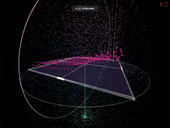
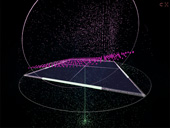
16号动态效果优化

diff --git a/js/e16.js b/js/e16.js
@@ -7,12 +7,13 @@ define(['analyser', 'util', 'renderer'], function (analyser, util, renderer) {
         materialProcessbar, geometryProcessbar, meshProcessbars,
         materialBackground,
         centerMaterial, centerGeometry, centerParticles,
-        outerMaterial,outerMesh,
+        outerMaterial, outerMesh,
         visibleMaterial, visibleGeometry, visibleParticles, vertexcount = 0,
         i, h, r = 12, proc = 0,
         SEPARATION = 100, AMOUNTX = 25, AMOUNTY = 25,
-        data, len = 20, total,avg, count = 10000,
-        musicdata, camera_a = 0, square_r = SEPARATION * AMOUNTY, square_r2 = 0.53 * square_r,square_r3 =Math.sqrt(2)*square_r2,
+        data, len = 20, total, avg, count = 10000,
+        musicdata, camera_a = 0,
+        square_r = SEPARATION * AMOUNTY, square_r2 = 0.53 * square_r, square_r3 = Math.sqrt(2) * 0.535 * square_r,
         twoPI = 2 * Math.PI,
         initOrNot = false;
 
@@ -41,9 +42,9 @@ define(['analyser', 'util', 'renderer'], function (analyser, util, renderer) {
         for (i = 0; i < len; i++) {
             total += data[i]
         }
-        avg = Math.floor(total/len);
+        avg = Math.floor(total / len);
 
-        camera_a = (camera_a + avg*0.00001)%twoPI;
+        camera_a = (camera_a + avg * 0.00001) % twoPI;
 
         camera.position.set(square_r * Math.cos(camera_a), square_r * Math.sin(camera_a), camera.position.z);
         camera.lookAt({
@@ -55,20 +56,10 @@ define(['analyser', 'util', 'renderer'], function (analyser, util, renderer) {
 
         // 彩色进度条重绘
 
-        geometryProcessbar = new THREE.BoxGeometry(proc * 1.07 * square_r, 0.01 * square_r, 0.01 * square_r, 1, 1, 1);
         materialProcessbar.color.setHSL(((h * 360 + 180) % 360) / 360, 1.0, 0.9);
-        meshProcessbars[4].geometry.dispose();
-
-        var meshProcessbar;
 
         for (i = 4; i < 8; i++) {
-            scene.remove(meshProcessbars[i]);
-            meshProcessbar = new THREE.Mesh(geometryProcessbar, materialProcessbar);
-            var t = i * twoPI / 4;
-            meshProcessbar.position.set(Math.cos(t) * square_r2, Math.sin(t) * square_r2, 0);
-            meshProcessbar.rotateZ(t + twoPI / 4);
-            meshProcessbars[i] = meshProcessbar;
-            scene.add(meshProcessbar);
+            meshProcessbars[i].scale.set(proc, 1, 1);
         }
 
         materialBackground.color.setHSL(((h * 360 + 300) % 360) / 360, 0.3, 0.4);
@@ -86,17 +77,18 @@ define(['analyser', 'util', 'renderer'], function (analyser, util, renderer) {
             var vertex = centerGeometry.vertices[i],
                 t = vertex.postiondata[0],
                 rt = vertex.postiondata[1],
-                v = vertex.postiondata[2];
+                v = vertex.postiondata[2],
+                absx = Math.abs(vertex.x),
+                absy = Math.abs(vertex.y);
             if ((vertex.z != 0) && (rt < square_r3)) {
                 if ((vertex.x == 0) && (vertex.y == 0)) {
-                    if (vertex.z >  -square_r3) {
+                    if (vertex.z > -square_r3) {
                         vertex.z -= v;
                         continue;
                     } else {
                         t = Math.random() * twoPI;
                         rt = 1;
                         v = 1 + Math.random() * 2;
-                        vertex.z = -0.5 * square_r3;
                     }
                 } else {
                     rt += v;
@@ -105,24 +97,17 @@ define(['analyser', 'util', 'renderer'], function (analyser, util, renderer) {
                 }
             } else {
                 vertex.z = 0;
-                if ((vertex.x * vertex.y == 0) && (Math.abs(vertex.x + vertex.y) < square_r2)) {
-                    if (vertex.y != 0) {
-                        vertex.y = Math.sign(vertex.y) * Math.floor(Math.abs(vertex.y) * 0.99);
-                        continue;
-                    } else if (vertex.x != 0) {
-                        vertex.x = Math.sign(vertex.x) * Math.floor(Math.abs(vertex.x) * 0.99);
-                        continue;
-                    } else {
-                        vertex.z = -v;
-                        continue;
-                    }
-                } else if ((Math.abs(vertex.y) > square_r2) || (Math.abs(vertex.x) > square_r2))
+                if ((absx + absy) == 0) {
+
+                    vertex.z = -1;
+                    continue;
+                } else if ((absy > square_r2) || (absx > square_r2))
                     rt -= v;
-                else if (Math.abs(vertex.y) > Math.abs(vertex.x)) {
-                    vertex.x = Math.sign(vertex.x) * Math.floor(Math.abs(vertex.x) * 0.99);
+                else if (((absy == 0) && (absx <= square_r)) || ((absx != 0) && (absy >= absx))) {
+                    vertex.x = Math.sign(vertex.x) * Math.floor(absx * 0.99);
                     continue;
                 } else {
-                    vertex.y = Math.sign(vertex.y) * Math.floor(Math.abs(vertex.y) * 0.99);
+                    vertex.y = Math.sign(vertex.y) * Math.floor(absy * 0.99);
                     continue;
                 }
             }
@@ -139,23 +124,24 @@ define(['analyser', 'util', 'renderer'], function (analyser, util, renderer) {
         // 绘制逃逸小球粒子
 
         var zeroPoint = new THREE.Vector3(),
-            angseg = twoPI/(2*(AMOUNTX+AMOUNTY));
+            angseg = twoPI / (2 * (AMOUNTX + AMOUNTY));
 
         for (i = 0; i < visibleGeometry.vertices.length; i++) {
-            var vertex = visibleGeometry.vertices[i],
-                t = vertex.postiondata[0],
-                rt = vertex.postiondata[1],
-                v = vertex.postiondata[2],
-                isVisible = vertex.postiondata[3],
+            vertex = visibleGeometry.vertices[i];
+            t = vertex.postiondata[0];
+            rt = vertex.postiondata[1];
+            v = vertex.postiondata[2];
+            var isVisible = vertex.postiondata[3],
                 isZUp = vertex.postiondata[4];
+            absx = Math.abs(vertex.x);
+            absy = Math.abs(vertex.y);
             if (!isVisible)
                 continue;
             if (isZUp) {
                 if (vertex.distanceTo(zeroPoint) > square_r3) {
-                    isZUp = false;
+                    vertex.postiondata[4] = false;
                     rt = Math.sqrt(vertex.x * vertex.x + vertex.y * vertex.y);
-                    t += Math.random()*angseg;
-                    v =0.05;
+                    t += Math.random() * angseg;
                 } else {
                     vertex.z += v;
                     continue;
@@ -167,39 +153,31 @@ define(['analyser', 'util', 'renderer'], function (analyser, util, renderer) {
                     vertex.z = Math.sqrt(square_r3 * square_r3 - rt * rt);
                 } else {
                     vertex.z = 0;
-                    if ((vertex.x * vertex.y == 0) && (Math.abs(vertex.x + vertex.y) < square_r2)) {
-                        if (vertex.y != 0) {
-                            vertex.y = Math.sign(vertex.y) * Math.floor(Math.abs(vertex.y) * 0.99);
-                            continue;
-                        } else if (vertex.x != 0) {
-                            vertex.x = Math.sign(vertex.x) * Math.floor(Math.abs(vertex.x) * 0.99);
-                            continue;
-                        } else {
-                            vertex.x=vertex.y=vertex.z=0;
-                            isVisible = false;
-                        }
-                    } else if ((Math.abs(vertex.y) > square_r2) || (Math.abs(vertex.x) > square_r2))
+                    if ((absx + absy) == 0) {
+                        vertex.z = vertex.x = vertex.y = 0;
+                        vertex.postiondata[3] = false;
+                    }
+                    else if ((absy > square_r2) || (absx > square_r2))
                         rt -= v;
-                    else if (Math.abs(vertex.y) > Math.abs(vertex.x)) {
-                        vertex.x = Math.sign(vertex.x) * Math.floor(Math.abs(vertex.x) * 0.99);
+                    else if (((absy == 0) && (absx <= square_r)) || ((absx != 0) && (absy >= absx))) {
+                        vertex.x = Math.sign(vertex.x) * Math.floor(absx * 0.99);
                         continue;
                     } else {
-                        vertex.y = Math.sign(vertex.y) * Math.floor(Math.abs(vertex.y) * 0.99);
+                        vertex.y = Math.sign(vertex.y) * Math.floor(absy * 0.99);
                         continue;
                     }
                 }
-                vertex.x = rt * Math.cos(t);
-                vertex.y = rt * Math.sin(t);
             }
+            vertex.x = rt * Math.cos(t);
+            vertex.y = rt * Math.sin(t);
             vertex.postiondata[0] = t;
             vertex.postiondata[1] = rt;
-            vertex.postiondata[3] = isVisible;
-            vertex.postiondata[4] = isZUp;
         }
 
         visibleMaterial.color.setHSL(h, 0.9, 0.8);
 
-        var tArray = [], t = Math.floor(data.length * 0.4 / AMOUNTY);
+        var tArray = [];
+        t = Math.floor(data.length * 0.4 / AMOUNTY);
         for (i = 0; i < AMOUNTY; i++) {
             tArray[i] = data[i * t] * 2;
         }
@@ -211,25 +189,24 @@ define(['analyser', 'util', 'renderer'], function (analyser, util, renderer) {
 
         material.emissive.setHSL(h, 0.7, 0.4);
 
-        var ruler = 2*r;
+        var ruler = 2 * r;
 
         for (var ix = 0; ix < AMOUNTX; ix++) {
             for (var iy = 0; iy < AMOUNTY; iy++) {
                 particle = particles[i++];
                 musicdata[ix][iy] *= 0.95;
-                if (Math.abs(musicdata[ix][iy] - particle.position.z)>ruler) {
+                if (Math.abs(musicdata[ix][iy] - particle.position.z) > ruler) {
                     var t = vertexcount;
                     var k = getUnvisibleVextex(),
                         vertex = visibleGeometry.vertices[k];
                     if (t != k) {
-                        vertex.x = particle.position.x;
-                        vertex.y = particle.position.y;
+                        vertex.x = particle.position.x + (Math.random() * 2 - 1) * r;
+                        vertex.y = particle.position.y + (Math.random() * 2 - 1) * r;
                         vertex.z = particle.position.z;
-                        vertex.postiondata[0] = Math.atan2(vertex.y, vertex.x);
-                        vertex.postiondata[1] = 1;
-                        vertex.postiondata[2] = 3 + Math.random() * 10;
-                        vertex.postiondata[3] = true;
-                        vertex.postiondata[4] = true;
+                        t = Math.atan2(vertex.y, vertex.x);
+                        if (vertex.x < 0)
+                            t += Math.PI;
+                        vertex.postiondata = [t, 1, 3 + Math.random() * 10, true, true];
                     }
                 }
                 particle.position.set(particle.position.x, particle.position.y, r + musicdata[ix][iy]);
@@ -283,28 +260,29 @@ define(['analyser', 'util', 'renderer'], function (analyser, util, renderer) {
 
         // 绘制滚动圆环
 
-        var outerGeometry = new THREE.TorusGeometry(square_r3,3,4,100,twoPI);
+        var outerGeometry = new THREE.TorusGeometry(square_r3, 3, 4, 100, twoPI);
         outerMaterial = new THREE.MeshBasicMaterial({
-            transparent:true,
+            transparent: true,
             opacity: 0.3,
             color: 0xffffff,
             side: THREE.FrontSide,
             shading: THREE.SmoothShading,
         });
-        outerMesh = new THREE.Mesh(outerGeometry,outerMaterial);
+        outerMesh = new THREE.Mesh(outerGeometry, outerMaterial);
         scene.add(outerMesh);
+
         outerMaterial = new THREE.MeshBasicMaterial({
             opacity: 1,
             color: 0xffffff,
             side: THREE.FrontSide,
             shading: THREE.SmoothShading,
         });
-        outerMesh = new THREE.Mesh(outerGeometry,outerMaterial);
+        outerMesh = new THREE.Mesh(outerGeometry, outerMaterial);
         scene.add(outerMesh);
 
         // 绘制进度条
 
-        geometryProcessbar = new THREE.BoxGeometry(1, 0.01 * square_r, 0.01 * square_r, 1, 1, 1);
+        geometryProcessbar = new THREE.BoxGeometry(1.07 * square_r, 0.01 * square_r, 0.01 * square_r, 1, 1, 1);
         materialProcessbar = new THREE.MeshBasicMaterial({
             opacity: 1,
             color: 0xff00ff,
@@ -317,6 +295,7 @@ define(['analyser', 'util', 'renderer'], function (analyser, util, renderer) {
             var t = i * twoPI / 4;
             meshProcessbar.position.set(Math.cos(t) * square_r2, Math.sin(t) * square_r2, 0);
             meshProcessbar.rotateZ(t + twoPI / 4);
+            meshProcessbar.scale.set(0.000001, 1, 1);
             meshProcessbars[i + 4] = meshProcessbar;
             scene.add(meshProcessbar);
         }
